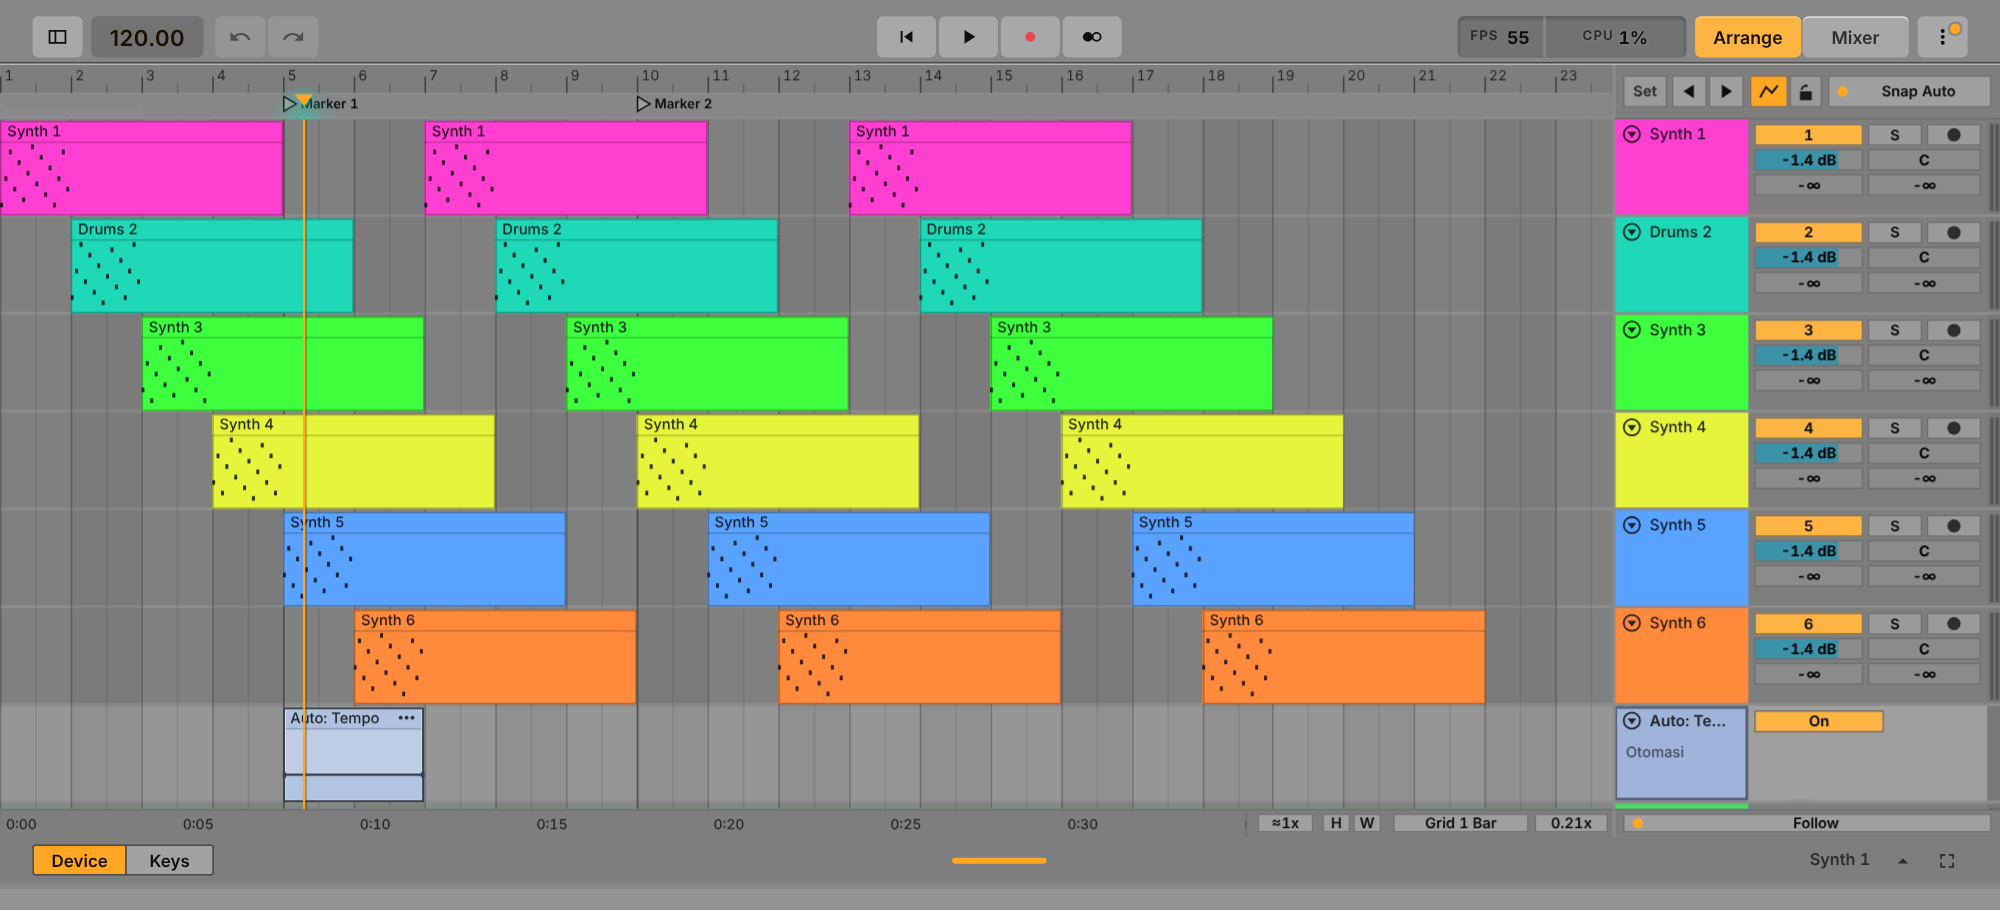
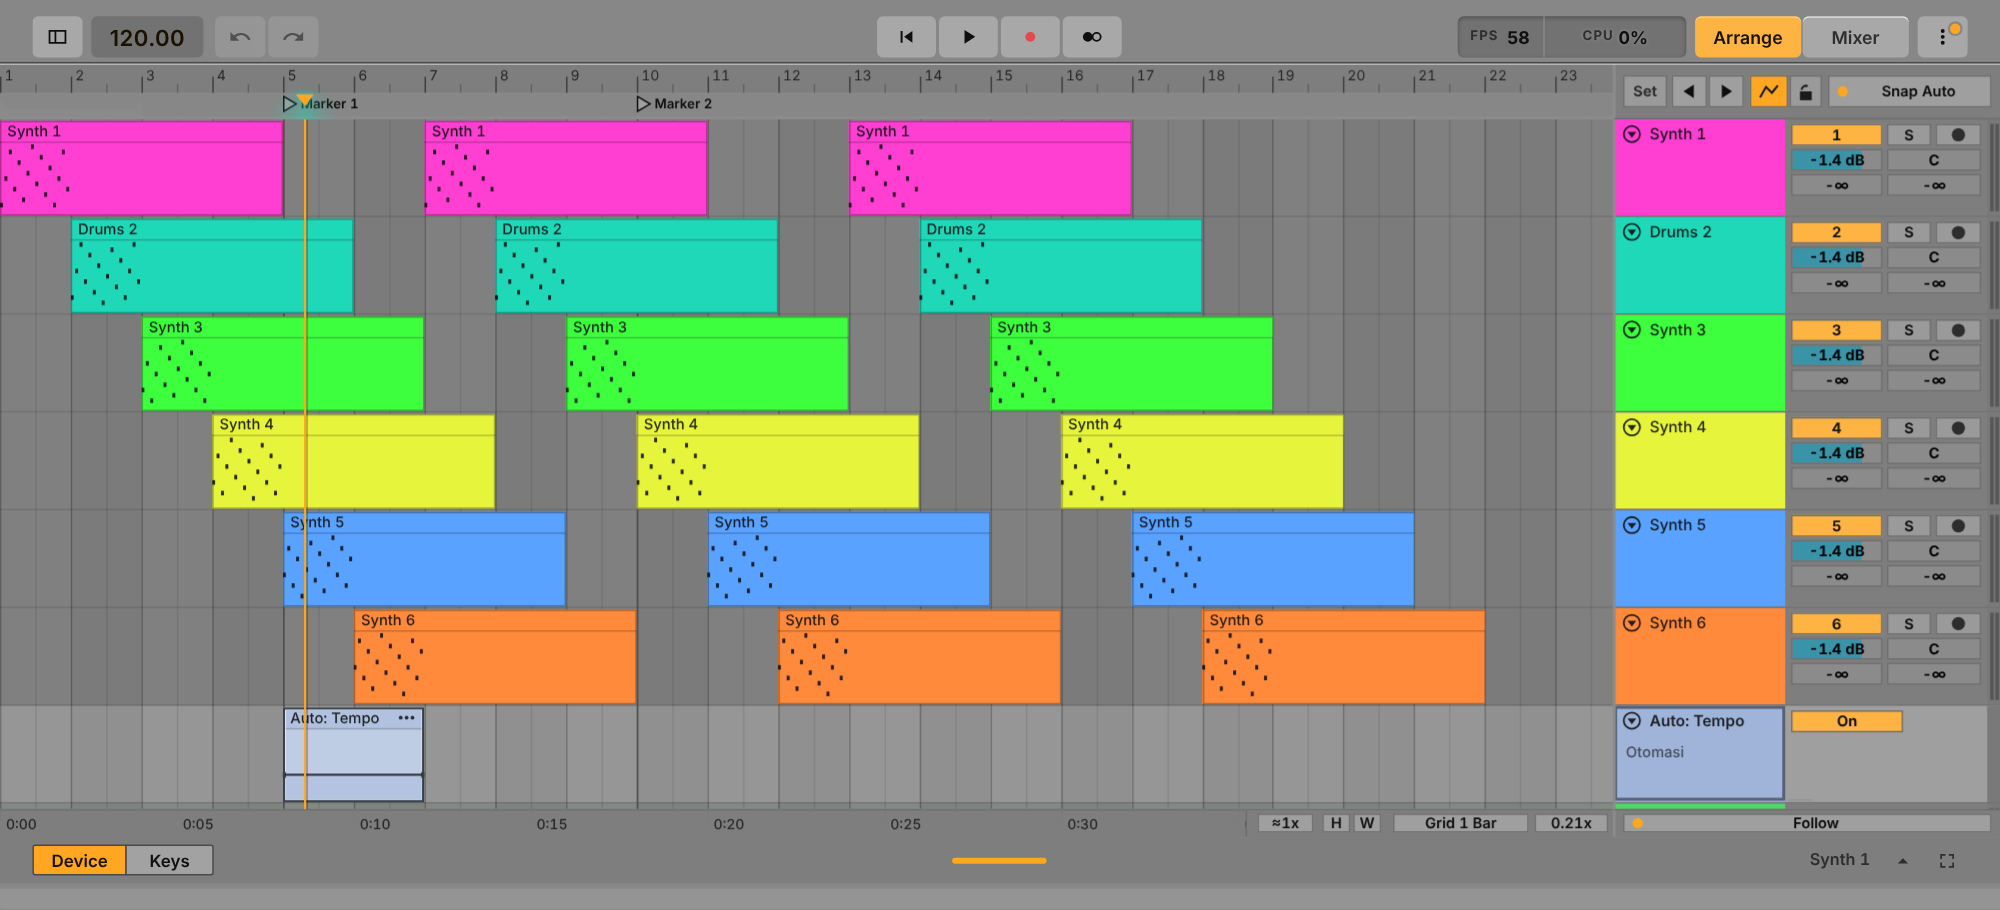
Arrangement after the owner's official Live 12 references
- thin 1 px track separators, the drop area as plain centred words
- the coloured name block nearly half the header, controls narrower
- Dark (Live 12) theme: cool, slightly lighter greys
- references in docs/refs/live12-official; header-ui-test follows the layout

Claude-Session: https://claude.ai/code/session_016R99TjSh2G5U2VqVgMNHhT

Changed region(s): [[0.806, 0.1231, 0.992, 0.8923]]

diff --git a/js/timeline.js b/js/timeline.js
@@ -97,7 +97,7 @@ const headLim = () => (full() ? [150, 460] : [56, 160]);
 const headAuto = () => (full() ? (W >= 1100 ? 262 : W >= 760 ? 240 : 208) : (W >= 760 ? 96 : 84));   // about a fifth of the screen, as Live's track header
 const headPref = () => (full() ? prefs.headW : prefs.headWc) || 0;
 function applyHead() { const [lo, hi] = headLim(); HEAD = headPref() > 0 ? Math.round(clamp(headPref(), lo, Math.min(hi, Math.max(lo, W - 120)))) : headAuto(); CW = Math.max(60, W - HEAD); }
-const nameW = () => (full() ? Math.max(76, Math.round((HEAD - METW) * 0.36)) : HEAD - METW);   // coloured column width: only the name; the rest, left of the meter, is the wide mixer column
+const nameW = () => (full() ? Math.max(76, Math.round((HEAD - METW) * 0.46)) : HEAD - METW);   // Live 12 (refs/live12-official): the coloured name block takes nearly half the header; coloured column width: only the name; the rest, left of the meter, is the wide mixer column
 export const headWidth = () => HEAD;
 export const headerLayout = (i) => (state.tracks[i] ? hdr(i) : null);
 export const subLayout = (i) => (state.tracks[i] ? P.subsOf(state.tracks[i]).map((_, k) => subHdr(i, k)) : []);   // tests: the sub-track rows of track i (y, h, M button)   // tests: where the header controls of track i are
@@ -336,7 +336,7 @@ function draw() {
     ctx.fillStyle = state.sel.track === i ? C('#333337') : C('#2a2a2c'); ctx.fillRect(0, y, CW, h);
     const sn = subN(state.tracks[i]);
     if (sn) { const mh = rhMain(i), sh = SUBH(), L = P.subsOf(state.tracks[i]); for (let k = 0; k < sn; k++) { const sy = y + mh + k * sh; ctx.fillStyle = C('#262628'); ctx.fillRect(0, sy, CW, sh); if (L[k].mute) { ctx.fillStyle = 'rgba(0,0,0,.18)'; ctx.fillRect(0, sy, CW, sh); } ctx.fillStyle = C('#1a1a1c'); ctx.fillRect(0, sy - 1, CW, 1); } }   // sub-track rows: a shade darker, a thin line above each
-    ctx.fillStyle = C('#08080a'); ctx.fillRect(0, y + h - 2, CW, 2);                     // Live: a heavy line between tracks
+    ctx.fillStyle = C('#141416'); ctx.fillRect(0, y + h - 1, CW, 1);                     // Live 12 (refs/live12-official): a thin dark line between tracks
   }
   const xl = [];                                                                       // captions of the Master / effect lanes, drawn after the grid
   for (let i = Math.max(n, rowAt(RULER)); i < nn && i <= rowAt(LB); i++) {             // Master / effect track rows: no clips, they only mix
@@ -381,9 +381,8 @@ function draw() {
   // the "+" row: Live's "Drop Files and Devices Here" area
   { const y = rowY(nn), h = rh(nn);
     if (y < LB && y + h > RULER && CW > 120) {
-      ctx.setLineDash([4, 4]); ctx.strokeStyle = C('#3c3c41'); ctx.lineWidth = 1; ctx.strokeRect(6.5, y + 6.5, CW - 13, h - 13); ctx.setLineDash([]);
-      ctx.fillStyle = C('#6c6c73'); ctx.font = FONT(500, 11); ctx.textBaseline = 'middle'; ctx.textAlign = 'center';
-      ctx.fillText(cut2('Seret sample, instrumen, atau efek ke sini • ketuk + untuk track baru', CW - 30), CW / 2, y + h / 2 + 0.5); ctx.textAlign = 'left';
+      ctx.fillStyle = C('#8b8b92'); ctx.font = FONT(500, 11);   // Live: only the words, centred, no box ctx.textBaseline = 'middle'; ctx.textAlign = 'center';
+      ctx.fillText(cut2('Seret file dan device ke sini', CW - 30), CW / 2, y + h / 2 + 0.5); ctx.textAlign = 'left';
     } }
   ctx.restore();
   // clips
@@ -699,7 +698,7 @@ function drawHeads() {
       ctx.fillStyle = C('#161617'); ctx.fillRect(r.hm.x, r.hm.y, r.hm.w, r.hm.h);
       const lh = Math.max(1.5, (r.hm.h - 3) / 2); ctx.fillStyle = C('#101011'); ctx.fillRect(r.hm.x + 2, r.hm.y + 1, r.hm.w - 4, lh); ctx.fillRect(r.hm.x + 2, r.hm.y + 2 + lh, r.hm.w - 4, lh);
     } else if (!auto) meterWell(); else { ctx.fillStyle = C('#161617'); ctx.fillRect(hx + HEAD - METW, y, METW, h - 1); }
-    ctx.fillStyle = C('#08080a'); ctx.fillRect(hx, y + h - 2, HEAD, 2);                  // the same heavy line as the lane
+    ctx.fillStyle = C('#141416'); ctx.fillRect(hx, y + h - 1, HEAD, 1);                  // the same thin line as the lane
     if (!t.fold && h >= MIN_ROW && (on || (drag && drag.k === 'rowh' && drag.i === i))) { ctx.fillStyle = drag && drag.k === 'rowh' && drag.i === i ? T('--accent') : C('#46464c'); ctx.fillRect(hx + (HEAD - METW) / 2 - 8, y + h - 3, 16, 1); }   // grip of the selected track: drag the bottom edge = row height
   }
   ctx.restore();

diff --git a/sw.js b/sw.js
@@ -1,5 +1,5 @@
 // Offline cache. The cache name contains a hash of every file, so a new deploy replaces the old cache automatically.
-const CACHE = 'mobiledaw-414e5ca53562';
+const CACHE = 'mobiledaw-377c9164af45';
 const ASSETS = ["./", "./css/app.css", "./css/ableton.css", "./css/float.css", "./css/live.css", "./icons/icon-192.png", "./icons/icon-512.png", "./icons/icon-maskable-512.png", "./index.html", "./js/about.js", "./js/aboutdata.js", "./js/audioedit.js", "./js/autocurve.js", "./js/automate.js", "./js/autosave.js", "./js/browser.js", "./js/chords.js", "./js/colorpick.js", "./js/defs.js", "./js/demos.js", "./js/devices.js", "./js/devviz.js", "./js/drumpad.js", "./js/edgeguard.js", "./js/editor.js", "./js/engine.js", "./js/engine/analog.js", "./js/engine/audioops.js", "./js/engine/cmdtext.js", "./js/engine/core.js", "./js/engine/dsp.js", "./js/engine/drift.js", "./js/engine/ds.js", "./js/engine/fx.js", "./js/engine/fx2.js", "./js/engine/fx3.js", "./js/engine/fx4.js", "./js/engine/fx5.js", "./js/engine/fx6.js", "./js/engine/fx7.js", "./js/engine/fx8.js", "./js/engine/granulator.js", "./js/engine/impulse.js", "./js/engine/instruments.js", "./js/engine/live.js", "./js/engine/meld.js", "./js/engine/meter.js", "./js/engine/mp3.js", "./js/engine/mp3tables.js", "./js/engine/nativesink.js", "./js/engine/operator.js", "./js/engine/phys.js", "./js/engine/poli.js", "./js/engine/sabio.js", "./js/engine/sf2.js", "./js/engine/simpler.js", "./js/engine/flmsyn.js", "./js/engine/hdgms.js", "./js/engine/hdmfx.js", "./js/engine/hdmini.js", "./js/engine/hdsaw.js", "./js/engine/smf.js", "./js/engine/stretchworker.js", "./js/engine/tmap.js", "./js/engine/wav.js", "./js/engine/waveops.js", "./js/engine/mdaw.wasm", "./js/engine/wasmengine.js", "./js/engine/web.js", "./js/engine/worklet-wasm.js", "./js/engine/worklet.js", "./js/floatwin.js", "./js/fps.js", "./js/fxviz.js", "./js/fxkit.js", "./js/flmpanels.js", "./js/flmfx.js", "./js/flm3osc.js", "./js/flmlayout.js", "./js/flmlive.js", "./js/slicerdetect.js", "./js/fxlaw.js", "./js/flmviz.js", "./js/gesture.js", "./js/history.js", "./js/import/als.js", "./js/import/build.js", "./js/import/flm.js", "./js/import/flp.js", "./js/import/fxmap.js", "./js/import/gm.js", "./js/import/index.js", "./js/import/ui.js", "./js/keymap.js", "./js/keys.js", "./js/layout.js", "./js/liveinst.js", "./js/liveui.js", "./js/log.js", "./js/main.js", "./js/midi.js", "./js/midiio.js", "./js/minimeters.js", "./js/mmdraw.js", "./js/native.js", "./js/perf.js", "./js/mixer.js", "./js/prefs.js", "./js/presetlib.js", "./js/presets.js", "./js/project.js", "./js/projects.js", "./js/pwa.js", "./js/quicksave.js", "./js/reorder.js", "./js/safdir.js", "./js/settingsui.js", "./js/storage.js", "./js/tempo.js", "./js/theme.js", "./js/timeline.js", "./js/topbar.js", "./js/touchhit.js", "./js/ui.js", "./js/uiscale.js", "./js/waveform.js", "./js/zip.js", "./manifest.json"];
 self.addEventListener('install', (e) => { e.waitUntil(caches.open(CACHE).then((c) => c.addAll(ASSETS)).then(() => self.skipWaiting())); });
 self.addEventListener('activate', (e) => {

diff --git a/js/theme.js b/js/theme.js
@@ -14,6 +14,8 @@ const LIB = {
   lowc:     { name: 'Dark Neutral Low Contrast', base: 'dark',  a: 26, b: 0.82 },
   highc:    { name: 'Dark Neutral High Contrast', base: 'dark', a: -8, b: 1.14 },
   medc:     { name: 'Dark Neutral Medium Contrast', base: 'dark', a: 10, b: 0.98 },
+  // Live 12's default dark theme (refs/live12-official 01-03): the greys a little lighter and cool - lanes about #2c2e35, panels #23252a
+  live12:   { name: 'Dark (Live 12)', base: 'dark', a: 12, b: 0.96, tint: [-3, 0, 6] },
   lightmc:  { name: 'Light Neutral Medium Contrast', base: 'light', a: -26, b: 1.04 },
   lightlc:  { name: 'Light Neutral Low Contrast', base: 'light', a: -8, b: 0.86 },
   midlight: { name: 'Mid Light',                base: 'light', a: -42, b: 1.0 },
@@ -30,8 +32,8 @@ for (const [id, t] of Object.entries(LIB)) {
   for (const [k, v] of Object.entries(src)) {
     const L = typeof v === 'string' && /^#[0-9a-f]{6}/i.test(v) && k !== '--c0' && k !== '--c255' ? grey(v) : -1;
     if (L < 0) { out[k] = v; continue; }
-    const n = Math.max(0, Math.min(255, Math.round(t.a + t.b * L))).toString(16).padStart(2, '0');
-    out[k] = '#' + n + n + n + v.slice(7);
+    const g = Math.max(0, Math.min(255, Math.round(t.a + t.b * L))), d = t.tint || [0, 0, 0], hx2 = (q) => Math.max(0, Math.min(255, q)).toString(16).padStart(2, '0');
+    out[k] = '#' + hx2(g + d[0]) + hx2(g + d[1]) + hx2(g + d[2]) + v.slice(7);
   }
   if (t.over) Object.assign(out, t.over);
   THEMES[id] = out;
@@ -39,7 +41,7 @@ for (const [id, t] of Object.entries(LIB)) {
 // the Light theme IS the Ableton Live reference palette (owner's request: 'pakai tema light'); the derived Mid Light / High Contrast themes were built from the old values above
 THEMES.light = THEMES.ableton; delete THEMES.ableton;
 export const THEME_TONE = { light: 'light', midlight: 'light', lighthc: 'light', lightmc: 'light', lightlc: 'light' };
-export const THEME_NAMES = { dark: 'Dark', middark: 'Mid Dark', lowc: 'Dark Neutral Low Contrast', medc: 'Dark Neutral Medium Contrast', highc: 'Dark Neutral High Contrast', live: 'Live Classic', black: 'Darkest (OLED)', midlight: 'Mid Light', light: 'Light (Ableton Live)', lightmc: 'Light Neutral Medium Contrast', lightlc: 'Light Neutral Low Contrast', lighthc: 'Light Neutral High Contrast' };
+export const THEME_NAMES = { dark: 'Dark', middark: 'Mid Dark', lowc: 'Dark Neutral Low Contrast', live12: 'Dark (Live 12)', medc: 'Dark Neutral Medium Contrast', highc: 'Dark Neutral High Contrast', live: 'Live Classic', black: 'Darkest (OLED)', midlight: 'Mid Light', light: 'Light (Ableton Live)', lightmc: 'Light Neutral Medium Contrast', lightlc: 'Light Neutral Low Contrast', lighthc: 'Light Neutral High Contrast' };
 // swatches for the theme picker: background, panel, control, text
 export const themeSwatch = (id) => { const t = THEMES[id] || THEMES.dark; return [t['--bg'], t['--panel2'], t['--raise2'], t['--text']]; };
 // ---- Live 12's theme adjustments (Settings -> Tema): every theme can be shifted without making a new one.

diff --git a/docs/HANDOFF.md b/docs/HANDOFF.md
@@ -764,6 +764,7 @@ Permintaan pemilik: SEMUA efek dan instrumen diganti dengan set stok Ableton Liv
 - **Chop… dan Tempo… dari Honeydew** (menu klip; `timeline.js chopClip / tempoClip`, dari `clips.rs every_ticks / chop` dan Half/Double): potong klip tiap 1/6..1 beat (mengikuti grid isi klip, offset diperhitungkan) atau klip audio di transien (deteksi Slicer, Sensitivity 0.25), maks 256 potong, satu undo; Half/Double Time = stretch 2x / 0.5x. Tes: `arr-live-test.mjs`.
 - Font arrangement disamakan dengan Live: nama track 10.5 px regular, nama klip regular, angka ruler 9.5 px regular abu.
 - **Header track = Live 12** (refs/live12/058, `timeline.js hdr`): tiga kolom ½ / ¼ / ¼: baris 1 aktivator (nomor) | S | arm, baris 2 volume | pan, baris 3 send A | send B (nilai dB polos). Tidak ada tombol otomasi dan isian output di header (ada di menu header: Output…, Lane otomasi…). Grid tema gelap lebih terang, tepi klip tipis. `header-ui-test.mjs` diperbarui.
+- **Referensi resmi Live 12** (`docs/refs/live12-official/01..05`, dari pemilik): garis antar-track tipis 1 px, area drop hanya teks "Seret file dan device ke sini" (tanpa kotak), blok nama berwarna ~46% lebar header, tema baru **Dark (Live 12)** (`live12`: abu sedikit lebih terang dan dingin, LIB `tint`). Perbandingan: `docs/redesign/arr/compare-live12-official.png`.
 - Belum: instrumen replika Live (Drift, Operator, Analog, Poli, Meld, Wavetable, Simpler, Impulse, Granulator, Electric/Tension/Collision, DS) tidak diubah; penanda slice di display Slicer belum ada.
 
 - **Card modul FLM = device Live** (permintaan pemilik: bahasa desain, perilaku dan interaksi card FX Ableton Live): `fxkit.js flmLive` + komposisi per modul di `js/flmlive.js` (37 efek + Transistor Bass / Slicer), dibangun dari bagian yang sama dengan panel Live 12 (`k.dk` display gelap, `k.NT` angka oranye, `k.TL`, `lk-ch`). Pola: kolom knob kiri (`L`) | display (`D`: grafik `flmviz`, `handles` yang diseret seperti Live - EQ band bernomor, ring Filter freq/reso, Threshold Compressor / Gate / Limiter, crossover Multiband, X/Y Waveshaper & Multi FX, 8 band Graphic / Tuned EQ; `tabs` = tombol mode di bawah grafik; `rows` = baris angka di dalam display, `table` = tabel band ala Multiband Dynamics; `tap` keyboard Pitcher; `piano` Scale) | baris knob di bawah display (`B`, ala Chorus-Ensemble / Phaser-Flanger / Auto Pan) | kolom kanan (`R`) dengan Dry/Wet di bawah (`'-'`). Equalizer meniru EQ Eight: band terpilih (Freq / Gain / Q di kiri, tombol 1-4 + tipe + channel di bawah display). `{ sw }` = Sync ala Live (menu saat Sync, knob saat bebas). Tes interaksi nyata di `tools/flmfx-shots.mjs` (seret ring Filter, ketuk keyboard Pitcher 2). 3x Osc masih memakai `flmLayout` (tab).
